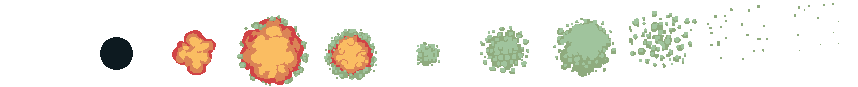
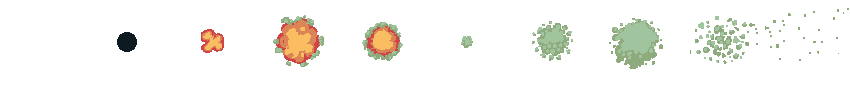
added mine animation, updated sprite sheet to fit parameters

diff --git a/GamesFleadh/GamesFleadh/Mine.cpp b/GamesFleadh/GamesFleadh/Mine.cpp
@@ -20,7 +20,8 @@ void Mine::loadTextures()
 		std::cout << "error loading big explosion";
 	}
 	m_sprite.setTexture(m_texture);
-	m_sprite.setScale(1, 1);
+	m_sprite.setScale(2, 2);
+	m_sprite.setTextureRect(sf::IntRect(0, 0, 85, 85));
 	m_sprite.setPosition(rand() % 400 + 1600, rand() % 800 + 100);
 
 	m_box.setFillColor(sf::Color::Transparent);
@@ -50,17 +51,16 @@ void Mine::animate()
 }
 void Mine::move()
 {
-	mineHB = new Rectangle(m_sprite.getPosition().x+5, m_sprite.getPosition().y+5, 55, 55);
-	m_box.setPosition(m_sprite.getPosition().x + 5, m_sprite.getPosition().y+5);
+	mineHB = new Rectangle(m_sprite.getPosition().x+35, m_sprite.getPosition().y+35, 95, 95);
+	m_box.setPosition(m_sprite.getPosition().x + 35, m_sprite.getPosition().y+35);
 	m_sprite.move(-speed, 0);
 }
 void Mine::boundary()
 {
-	if (m_sprite.getPosition().x < -50)
+	if (m_sprite.getPosition().x < -150)
 	{
 		m_sprite.setPosition(rand() % 300 + 1600, rand() % 800 + 100);
 		m_sprite.setTexture(m_texture);
-		m_sprite.setTextureRect(sf::IntRect(0, 0, 69, 69));
 		damaged = false;
 	}
 }
@@ -68,13 +68,15 @@ void Mine::boundary()
 void Mine::animateDeath()
 {
 	explosionTimer++;
-	if (explosionTimer > 5)
+	if (explosionTimer > 3)
 	{
 		explosionFrame++;
-		if (explosionFrame > 10) //frame 44 is the last frame the robot is running
+		if (explosionFrame >= 10) //frame 44 is the last frame the robot is running
 		{
 			explosionFrame = 0; //37 is the first frame the robot is running
 			damaged = false;
+			m_sprite.setPosition(rand() % 300 + 1600, rand() % 800 + 100);
+			m_sprite.setTexture(m_texture);
 		}
 		explosionTimer = 0;
 	}
@@ -82,11 +84,13 @@ void Mine::animateDeath()
 	int row = 0; //
 
 	sf::IntRect rectSourceSprite;
-	rectSourceSprite.height = 87;
+	rectSourceSprite.height = 85;
 	rectSourceSprite.width = 85;
 	rectSourceSprite.left = col * rectSourceSprite.width;
 	rectSourceSprite.top = row * rectSourceSprite.height;
 	m_sprite.setTextureRect(rectSourceSprite);
+
+
 }
 
 

diff --git a/GamesFleadh/GamesFleadh/Game.cpp b/GamesFleadh/GamesFleadh/Game.cpp
@@ -210,6 +210,7 @@ void Game::fishColl()
 		{
 			input.setCurrent(gpp::Events::Event::DAMAGE_TAKEN);
 			player->makeIsMoveF();
+			player->setVel();
 			damaged = true;
 			immune = true;
 		}
@@ -217,6 +218,7 @@ void Game::fishColl()
 		{
 			input.setCurrent(gpp::Events::Event::DAMAGE_TAKEN);
 			player->makeIsMoveF();
+			player->setVel();
 			damaged = true;
 			immune = true;
 		}
@@ -224,6 +226,7 @@ void Game::fishColl()
 		{
 			input.setCurrent(gpp::Events::Event::DAMAGE_TAKEN);
 			player->makeIsMoveF();
+			player->setVel();
 			damaged = true;
 			immune = true;
 		}
@@ -231,6 +234,7 @@ void Game::fishColl()
 		{
 			input.setCurrent(gpp::Events::Event::DAMAGE_TAKEN);
 			player->makeIsMoveF();
+			player->setVel();
 			mine[i]->setDamageT();
 			damaged = true;
 			immune = true;

diff --git a/GamesFleadh/GamesFleadh/Mine.h b/GamesFleadh/GamesFleadh/Mine.h
@@ -8,7 +8,7 @@ private:
 	sf::Texture m_texture;
 	sf::Texture m_explodingTexture;
 	sf::Sprite m_sprite;
-	sf::RectangleShape m_box{ sf::Vector2f(55,55) };
+	sf::RectangleShape m_box{ sf::Vector2f(95,95) };
 	Rectangle* mineHB;
 	bool damaged = false;
 	int mineTimer = 0;
@@ -26,8 +26,10 @@ public:
 
 	virtual void animateDeath();
 	virtual void setDamageF() {damaged = false;}
-	virtual void setDamageT() { damaged = true;	m_sprite.setTexture(m_explodingTexture);
-	damaged = true;
+	virtual void setDamageT()
+	{
+		m_sprite.setTexture(m_explodingTexture);;
+		damaged = true;
 	}
 
 	

diff --git a/GamesFleadh/GamesFleadh/Player.h b/GamesFleadh/GamesFleadh/Player.h
@@ -38,6 +38,8 @@ public:
 	void move();
 	void boundary();
 
+	void setVel() { m_veloctiy.x = m_veloctiy.x * 0.5; m_veloctiy.y = m_veloctiy.y * 0.5; };
+
 	void HB();
 	void makeIsMoveT() { isMoving = true; };
 	void makeIsMoveF() { isMoving = false; };
